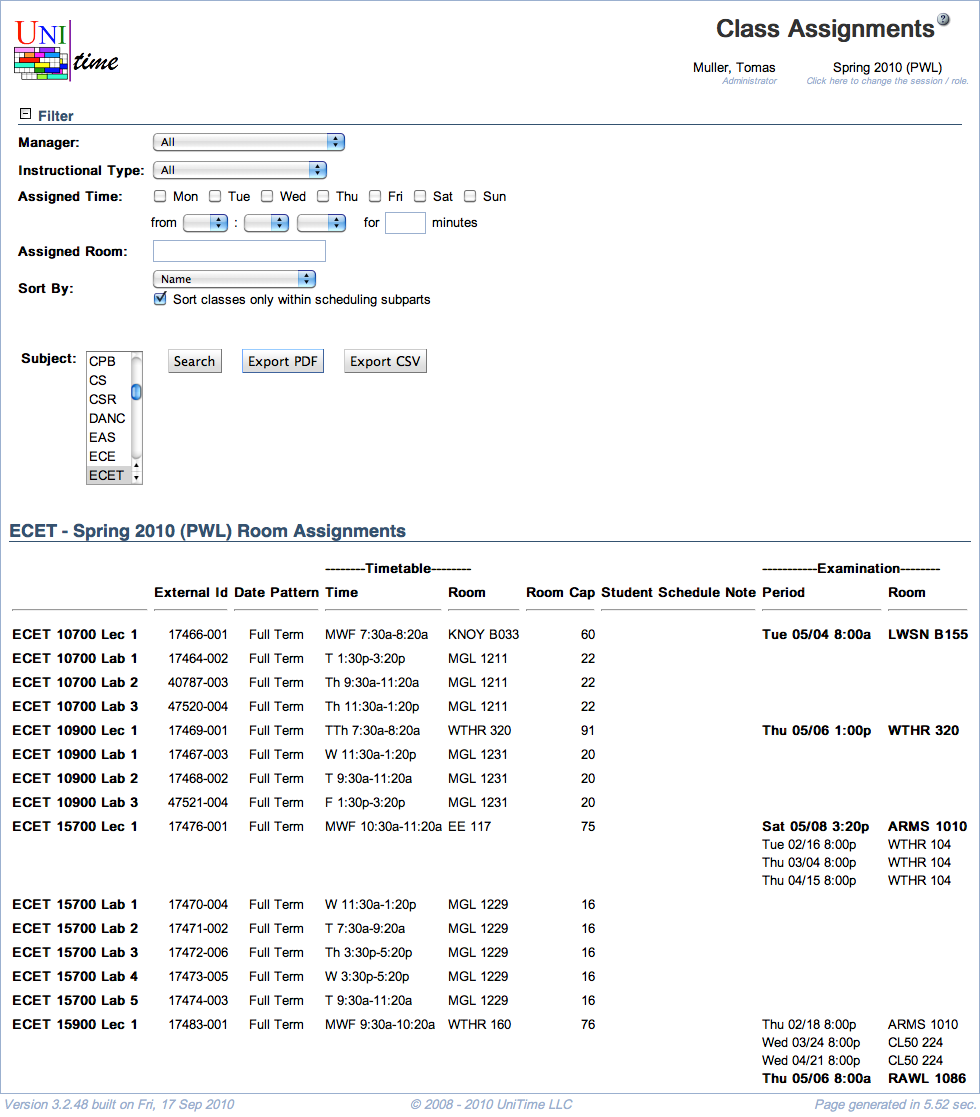
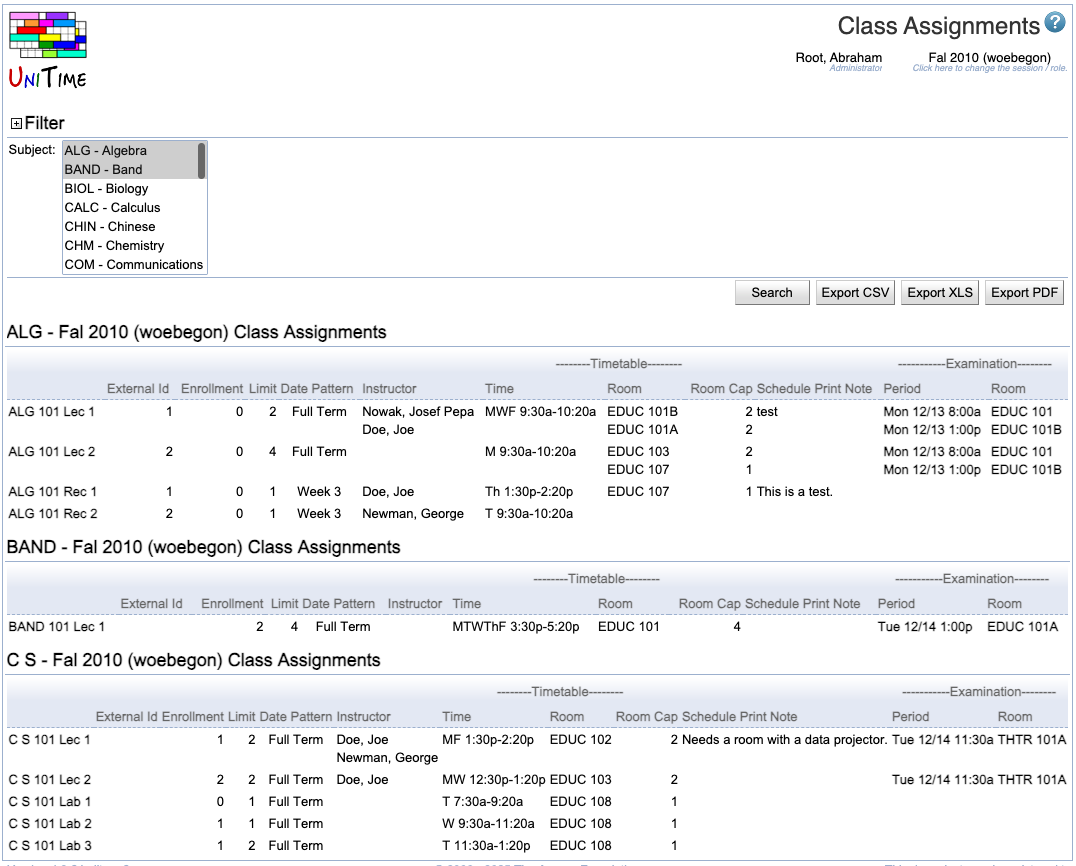
Class Assignments
- new screenshots, new fields, text cleanup

Changed region(s): [[0.0, 0.0, 1.0, 1.0], [0.6122, 0.9665, 0.6429, 0.9977]]

diff --git a/class-assignments.md b/class-assignments.md
@@ -6,7 +6,7 @@ title: Class Assignments
 
 ## Screen Description
 
-The Class Assignments screen is the only place where you can see classes from other departments. For example, you can find times and rooms of large lecture room classes for Physics, computing labs for English, or departmental classes of Visual and Performing Arts. Filtered results of your search are sorted by the subject area and if you export the results into a PDF, each subject area will begin on a new page in the resulting document.
+The Class Assignments screen is the only place where you can see classes from other departments. For example, you can find the times and rooms of large lecture room classes for Physics, computing labs for English, or departmental classes in the Visual and Performing Arts. The filtered results of your search are sorted by subject area. If you export the results into a PDF, each subject area will begin on a new page in the resulting document.
 
 ![Class Assignments](images/class-assignments-1.png){:class='screenshot'}
 
@@ -14,48 +14,74 @@ The Class Assignments screen is the only place where you can see classes from ot
 
 ### Filter
 
+In the **Filter**, you can select what kind of classes you want to see and what information to display about each of the classes. You must always click the Search button to apply the changes you have made to the filter.
+
+![Class Assignments](images/class-assignments-2.png){:class='screenshot small'}
+
 * **Manager**
-	* Select a manager to display only classes that are being timetabled by that manager
-		* For example, select "Large Lecture Room Manager" to see all the classes that require a large lecture room (for the subject area(s) you select in the Subject field)
+    * Select a manager to display only classes that that manager is timetabling
+        * For example, select "Large Lecture Room Manager" to see all the classes that require a large lecture room (for the subject area(s) you select in the Subject field)
 
 * **Instructional Type**
-	* Select whether you want to see all types of classes or only e.g. Lectures
+    * Select whether you want to see all types of classes or only ,e.g., Lectures
 
 * **Assigned Time**
-	* Indicate whether you want to see only classes taught at a specific time and/or on specific days (if nothing is entered for Assigned Time, all times/days are considered - you do not need to check all days)
-	* The assigned time is time assigned during timetabling
+    * Indicate whether you want to see only classes taught at a specific time and/or on specific days (if nothing is entered for Assigned Time, all times/days are considered - you do not need to check all days)
+    * The assigned time is time assigned during timetabling
 
 * **Assigned Room**
-	* Filter by room assigned to a class during timetabling
+    * Filter by room assigned to a class during timetabling
 
 * **Sort By**
-	* Select how you want to sort the resulting list of classes
-	* If you check "Sort classes only within scheduling subparts", the "Sort By" parameter will be applied only within each scheduling subpart - the classes will first be sorted by course number, then by scheduling subpart, and then by the criterion you selected
+    * Select how you want to sort the resulting list of classes
+    * If you check "Sort classes only within scheduling subparts", the "Sort By" parameter will be applied only within each scheduling subpart - the classes will first be sorted by course number, then by scheduling subpart, and then by the criterion you selected
 
-In the line below the filter part, select a subject area (or multiple subject areas by holding the Ctrl key and clicking on the subject areas you want to select) in the **Subject** field and click on the **Search** (Alt+S) button to apply the filter on the classes of selected subject area(s).
+* **Cross Lists**
+    * If "Show cross-listed classes" is checked, the classes of courses that are cross-listed but are not the controlling courses will also be displayed (within their subject areas)
+    * If "Show cross-listed classes" is not checked, the courses that are cross-listed but not controlling will not be displayed at all in the list of classes
+
+* **Cancelled Classes**
+    * If "Show canceled classes" is checked, the classes that have been canceled are included in the list
+
+In the line below the filter part, select a subject area (or multiple subject areas by holding the Ctrl key and clicking on the subject areas you want to select) in the **Subject** field and click on the **Search** (Alt+S) button to apply the filter on the classes of chosen subject area(s).
 
 The **search results** will be displayed as a list of classes for each subject area that you selected. The columns in the list are
 
 * **External Id**
-	* External Id of the class
+    * External Id of the class
+
+* **Enrollment**
+    * Current enrollment count (number of students enrolled in the class)
+
+* **Limit**
+    * Class limit
 
 * **Date Pattern**
-	* Indicates which weeks during the semester the class is taught
+    * Indicates which weeks during the semester the class is taught
+
+* **Instructor**
+    * Instructor(s) assigned to the class (only displayed when the *Display Instructors* flag is set on the class)
 
 * **Timetable**
-	* Applicable only if a timetable has been committed for a given class
-	* There are three parts of the timetable: (assigned) Time, (assigned) Room, and Room Capacity of the assigned room (Room Cap)
+    * Applicable only if a timetable has been committed for a given class
+    * There are three parts of the timetable: (assigned) Time, (assigned) Room, and Room Capacity of the assigned room (Room Cap)
 
 * **Student Schedule Note**
-	* The class note that will be displayed in the online Schedule of Classes and the student schedule
+    * The class note that will be displayed in the online Schedule of Classes and the student schedule
+
+* **Examination**
+    * If the class is associated with an examination, the assigned period and room of the examination
 
 ## Operations
 
 * **Export PDF** (Alt+P)
-	* Export the search results into a PDF document (read more about the export in the description of the [Instructional Offerings](instructional-offerings) screen)
-	* In the resulting document, each subject area will start on a new page
+    * Export the search results into a PDF document (read more about the export in the description of the [Instructional Offerings](instructional-offerings) screen)
+    * In the resulting document, each subject area will start on a new page
 
 * **Export CSV** (Alt+C)
-	* Export the search results into a "comma separated value" (CSV) document that can easily be opened e.g. in Microsoft Excel
+    * Export the search results into a "comma separated value" (CSV) document that can easily be opened, e.g., in Microsoft Excel
+
+* **Export XLS** (Alt+X)
+    * Export the search results into an XLS document that can easily be opened, e.g., in Microsoft Excel
 
 

diff --git a/classes.md b/classes.md
@@ -47,7 +47,6 @@ In the **Filter**, you can select what kind of classes you want to see and what 
 
 * **Cross Lists**
     * If "Show cross-listed classes" is checked, the classes of courses that are cross-listed but are not the controlling courses will also be displayed (within their subject areas)
-        * The classes that are cross-listed, but are not a part of the controlling course in the cross-list, will not be in bold letters (as opposed to classes of the controlling courses and the courses that are not cross-listed)
     * If "Show cross-listed classes" is not checked, the courses that are cross-listed but not controlling will not be displayed at all in the list of classes
 
 * **Cancelled Classes**
